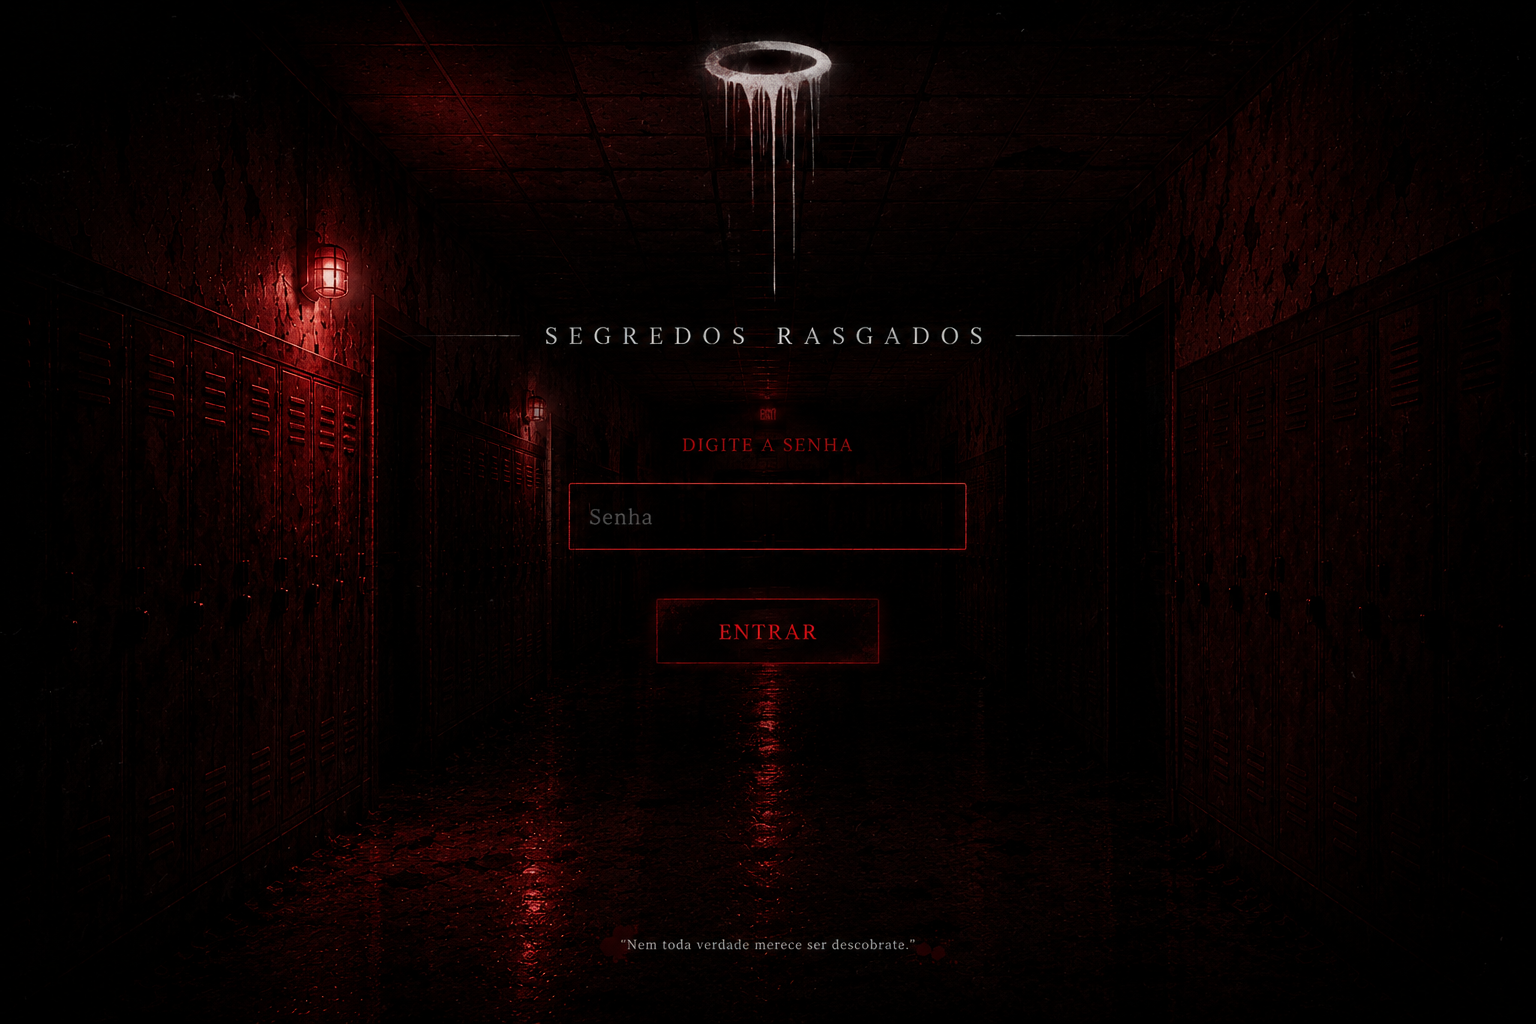
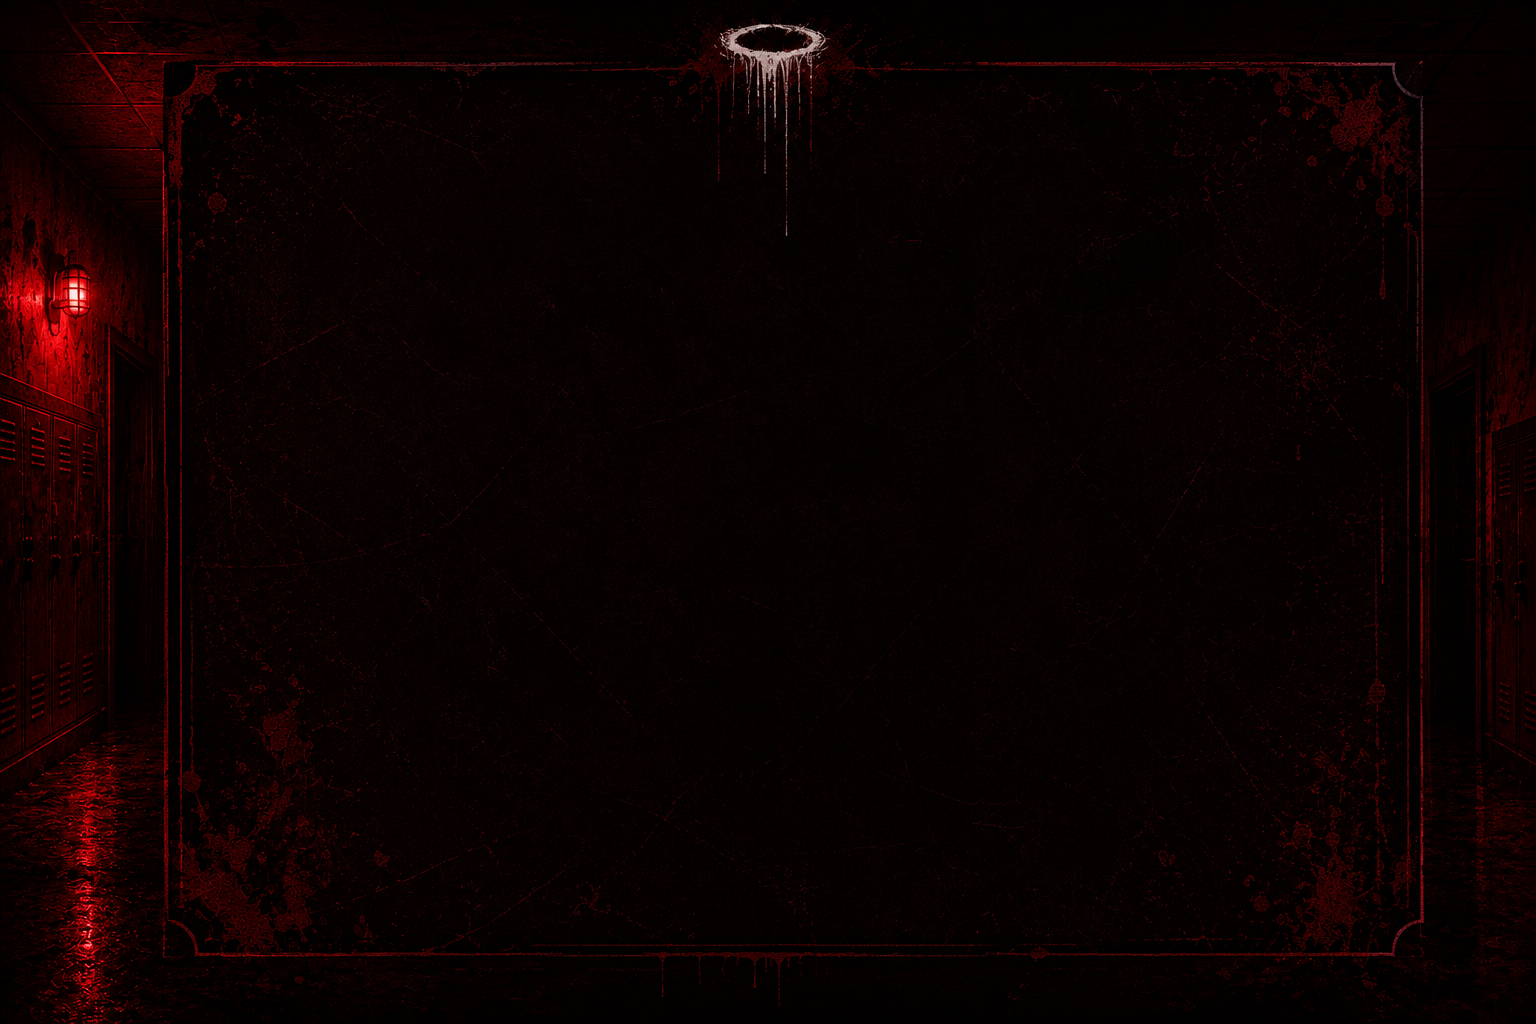
Add files via upload

diff --git a/style.css b/style.css
@@ -246,9 +246,9 @@ button:hover{
 
     transition:2s;
 
-    border:1px solid #500000;
+    border: none;
 
-    box-shadow:0 0 35px rgba(255,0,0,.25);
+    box-shadow: none;
 
 }
 

diff --git a/index.html b/index.html
@@ -44,7 +44,7 @@
 
     <img id="imagem" src="revelacao.png">
         
-        id="imagem">
+   
 
     <h2 id="texto"></h2>
 
